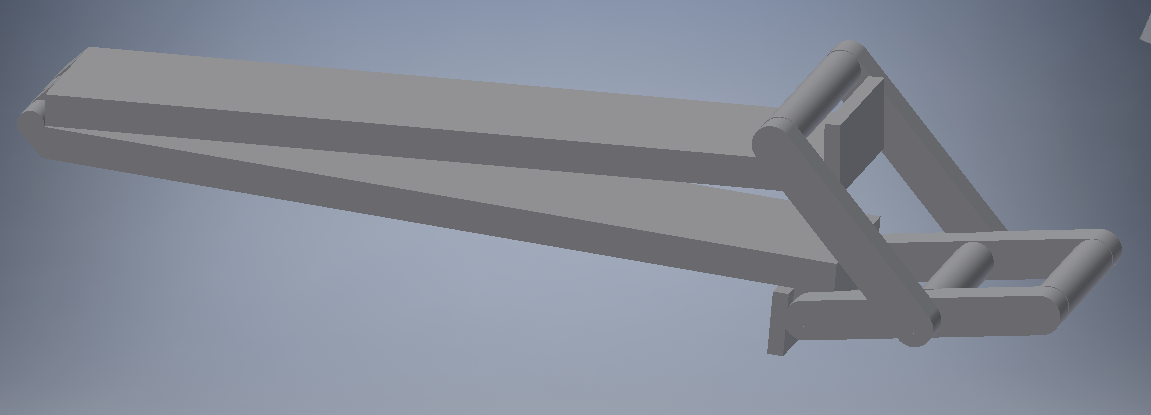
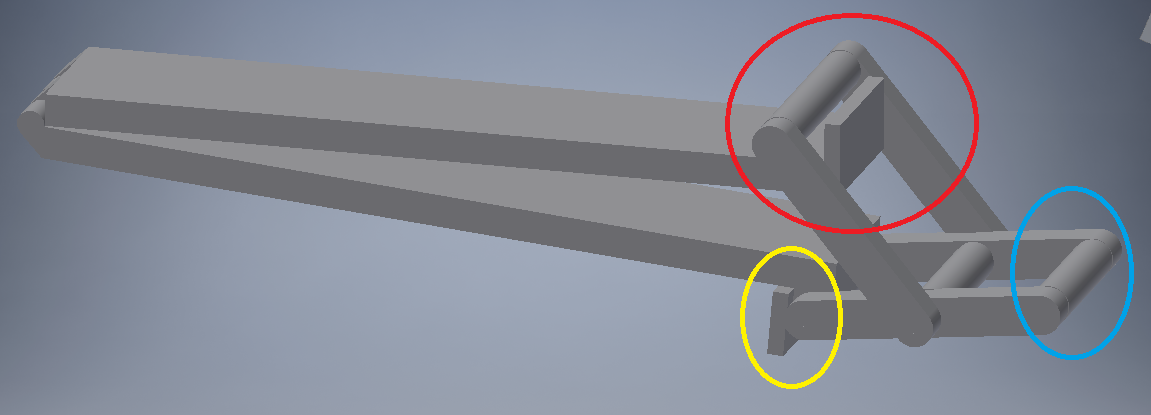
git commit -m "la"

diff --git a/Diplomarbeit/Pichler.tex b/Diplomarbeit/Pichler.tex
@@ -625,19 +625,31 @@ Die Drehplatte besteht aus Aluminium und ist 10mm dick. Es werden 5 Löcher für
 
 Die Futterschüssel hat deshalb einen Rand damit sie in ein Loch gelegt werden kann ohne dass sie durchfliegt, dennoch lässt sie sich leicht raus nehmen und reinigen. Durch eine rutschfeste Unterlage verrutsch die Schüssel nicht, auch wenn die Katze daraus frisst und sie mit Kraft die Schüssel zu verschieben versucht. Siehe Abbildung: \ref{Futterschuessel_Inventor}.
 
-\subsection{Förderband und Kettenglied}
+\subsection{Förderband, Kettenglied und Kettenrad}
 
-\begin{wrapfigure}{r}{0.5\textwidth}
-\vspace{-20pt}
-  \begin{center}
-    \includegraphics[width=0.26\textwidth]{Bilder/Inventor/Kette}
-  \end{center}
-  \caption{Kette Inventor}
-  \label{Kette_Inventor}
-  \vspace{-10pt}
-\end{wrapfigure}
+\begin{figure}[H]
+\begin{center}
+\includegraphics[width=10cm]{Bilder/Inventor/Kette}
+\caption{Kette Inventor}
+\label{Kette_Inventor} 
+\end{center}
+\end{figure}
 
-Konstruktion der Kette.
+
+Das Förderband Abbildung: \ref{Kette_Inventor} wurde in folgenden Schritten konstruiert: 
+
+\begin{itemize}
+\item[1] Als erstes wurde die Sicht in Inventor nach Vorne gedreht um die Grundlage des Förderbandes zu zeichnen.
+\item[2] Zweitens wurde die Ebene YZ sichtbar gemacht und eine Ebene mit Versatz erstellt, die 234,95mm entfernt ist. In diesen beiden Ebenen kommen später die Kettenräder.
+\item[3] Drittens wird auf der XY Ebene einen Kreis mit einen Durchmesser von 53,068mm gezeichnet. Der zweite Kreis in der gleiche Größe wird auf der erstellten Ebene platziert(234,95mm von der ersten Ebene entfernt). 
+\item[4] Viertens werden die beiden Kreise an den obersten und untersten Punkten verbunden. Siehe gelber und roter Kreis.
+\item[5] Fünftens wird an den beiden untersten Positionen der Kreise ein Punkt platziert. In Inventor existiert eine Methode namens Muster. Diese Funktion wird auf den Punkten platziert und die Richtung des Pfeiles nach rechts gedreht. Nun wird die Anzahl der Kettenglieder angegeben in unseren Fall 50. Die werden gleichmäßig über die Skizze verteilt.
+\item[6] Sechstens wird eine neue Datei erstellt und das Kettenrad aus dem Inhaltscenter platziert. Siehe Abbildung \ref{Kettenrad_Inventor}.
+\item[7] Siebtens wird das Kettenglied konstruiert und alle 3 Komponenten in ein gemeinsames Projekt eingefügt. Siehe Abbildung: \ref{Kettenglied_Inventor}.
+\item[8] Achtens wird das Kettenglied am untersten Punkt des rechten Kreises abhängig gemacht.
+\item[9] Neuntens Durch kann durch die Funktion Muster das Kettenglied gleichmäßig auf der Zeichnung platziert werden und dadurch entsteht die fertige Kette.
+\item[10] Zehntens werden die Kettenräder auf den zuvor erstellten Ebenen abhängige gemacht. Danach ist die Kette fertig erstellt.\\
+\end{itemize} 
 
 \begin{wrapfigure}{r}{0.5\textwidth}
 \vspace{-20pt}
@@ -646,10 +658,10 @@ Konstruktion der Kette.
   \end{center}
   \caption{Kettenglied Inventor}
   \label{Kettenglied_Inventor}
-  \vspace{-10pt}
+  \vspace{-20pt}
 \end{wrapfigure}
 
-Das Kettenglied ist im Handel erhältlich. Die Anfertigung hat auf der Seite einen rechten Winkel auf denen Aluminiumplatten platziert sind. Auf diese Aluminiumplatten wird der Futterbeutel platziert. 
+Das Kettenglied ist im Handel erhältlich. Die Anfertigung hat auf der Seite einen rechten Winkel auf denen Aluminiumplatten platziert sind. Auf diese Aluminiumplatten wird der Futterbeutel platziert. Siehe Abbildung: \ref{Kettenglied_Inventor}.\\
 
 \begin{wrapfigure}{r}{0.5\textwidth}
 \vspace{-20pt}
@@ -658,9 +670,11 @@ Das Kettenglied ist im Handel erhältlich. Die Anfertigung hat auf der Seite ein
   \end{center}
   \caption{Kettenrad Inventor}
   \label{Kettenrad_Inventor}
-  \vspace{-10pt}
+  \vspace{-30pt}
 \end{wrapfigure}
 
+Das Kettenrad wurde aus dem Inhaltscenter platziert. Danach wurde eine Skizze angelegt und das Loch in der die Welle durch geht gezeichnet. Die Rundung für die Passfeder wurde darauf hin auch konstruiert damit das Kettenrad nicht auf der Welle durchrutscht und das Drehmoment übertragen kann. Siehe Abbildung: \ref{Kettenrad_Inventor}.
+\newpage
 
 \subsection{Walze}
 
@@ -671,8 +685,10 @@ Das Kettenglied ist im Handel erhältlich. Die Anfertigung hat auf der Seite ein
   \end{center}
   \caption{Walze Inventor}
   \label{Walze_Inventor}
-  \vspace{-10pt}
+  \vspace{-30pt}
 \end{wrapfigure}
+
+Die beiden Walzen sind aus Kunststoff innen hohl. Diese sind auch nicht auf der Welle befestigt sondern können sich frei drehen. Es ist nur auf jeder Seite ein Sicherungsring damit die beiden Walzen ihre Postion nicht verlassen.Siehe Abbildung: \ref{Walze_Inventor}. \\
 
 \begin{wrapfigure}{r}{0.5\textwidth}
 \vspace{-20pt}
@@ -681,8 +697,26 @@ Das Kettenglied ist im Handel erhältlich. Die Anfertigung hat auf der Seite ein
   \end{center}
   \caption{Feder Inventor}
   \label{Feder_Inventor}
+  \vspace{-20pt}
+\end{wrapfigure}
+
+Die Feder drückt die beiden Walzen aneinander um die Futterpackung die durchgezogen wird auszuquetschen. Ohne die Feder und Walze könnte zu viele Reste in der Packung bleiben und so das ganze Futter verschwenden. Die Feder wurde von uns konstruiert und auf eine eigne Konstruktion gehängt die unabhängig von der Welle ist, damit die Feder nicht mitgedreht wird, sondern fix an einem Platz ist an den sie ihre Arbeit verrichtet. Siehe Abbildung: \ref{Feder_Inventor}.
+
+\subsection{Hebelklemme}
+
+\begin{wrapfigure}{r}{0.5\textwidth}
+\vspace{-20pt}
+  \begin{center}
+    \includegraphics[width=0.40\textwidth]{Bilder/Inventor/Hebel_Klemme}
+  \end{center}
+  \caption{Hebelklemme Inventor}
+  \label{Hebel_Klemme_Inventor}
   \vspace{-10pt}
 \end{wrapfigure}
+
+Die Hebelklemme dient zum Optimalen klemmen der Verpackung.
+Es ähnelt einen Marmeladen Verschluss von früher. Die Packung wird zwischen den zwei Platte eingelegt, danach wird der Schließmechanismus auf der oberen Platte eingehakt, siehe roter Kreis. Daraufhin wird die Unterseite des Schließmechanismus nach unten gedrückt, siehe blauer Kreis.
+Der Hebel wird soweit nach unten gedrückt bis er beim Stopper auftrifft, siehe gelber Kreis. Der Stopper hat die Aufgabe, dass der Hebel nicht zu weit geschlossen werden kann. Das hat zufolge das die Klemme leichter aufspringt. Siehe Abbildung: \ref{Hebel_Klemme_Inventor}.
 
 \section{Berechnung und Dimensionierung}
 \section{Simulation}	
@@ -708,4 +742,9 @@ Weiter zu Wartung, nachdem der Benutzer aus dem Urlaub zurück ist sollte man fo
 
 \section{Selbstkritische Analyse und Ausblick}
 
-
+Das Hauptproblem von meiner konstruierten Variante war das dichthalten der Packung mit einer Klemme die automatisch wenn das Förderband in betrieb ist leicht zu öffnen geht. Darum wurde die von uns konstruierte Hebel Klemme genommen. Die beim Betrieb des Förderbandes mit dem Hebel in eine Vorrichtung einhakt und diese dann die Klemme öffnet. \\
+\\
+Für Nachfolgeprojekte wäre besonders darauf zu achten das die Maschine von automatische gereinigt wird und womöglich eine Schneidefunktion einbauen die den Benutzer mehr entlasten könnte.\\
+\\
+Wenn ich in Zukunft noch einmal eine Katzenfuttermaschine bauen würde, würde ich diese nicht aus Packungen, sondern aus den kleinen Metallfutterpackungen mit der Lasche als Deckel. Der Benutzer müsste dann nur die Laschen so weit nach oben biegen damit der Deckel nicht aufgeht und in das Magazin einlegen. Die Packung wird daraufhin in Bewegung gebracht und die Lasche durch einen Haken geleitet. Dann öffnet sich die Packung und die Katze kann daraus fressen. Hat den Vorteil immer eine frische Schüssel zu haben und es können theoretisch so viele Packungen wie der Benutzer will in die Maschine eingelegt werden. \\
+ 
